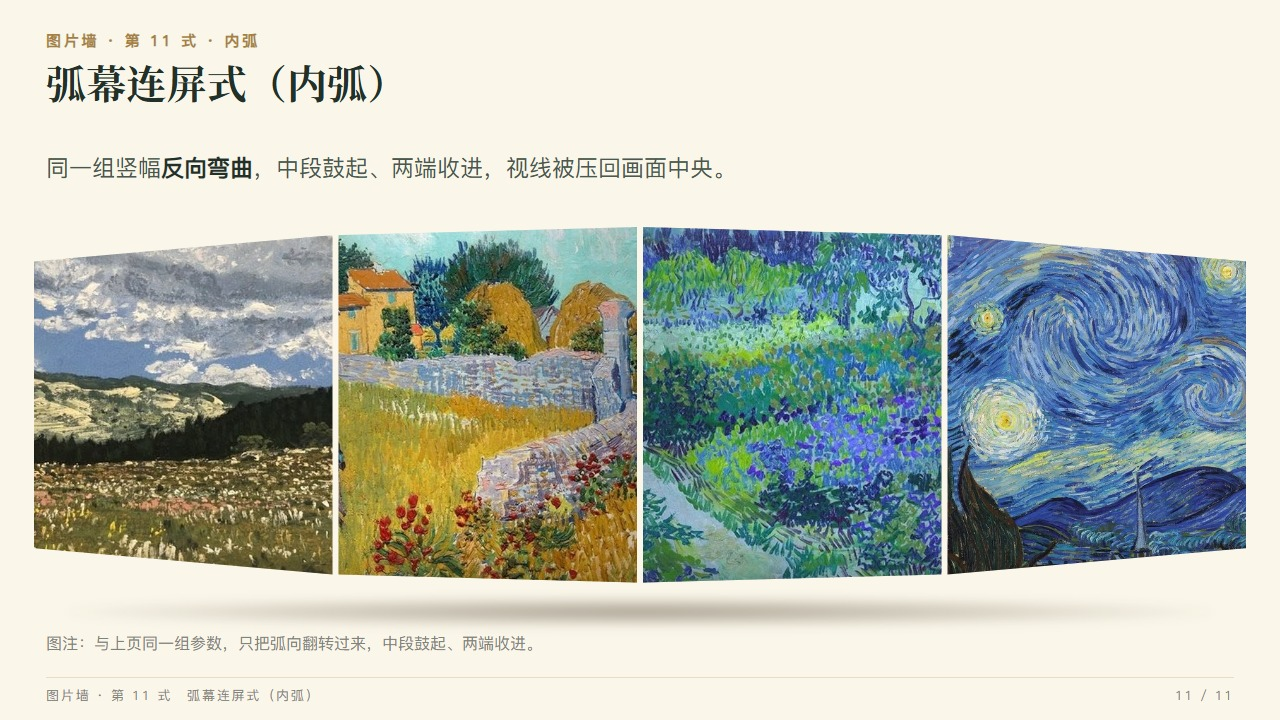
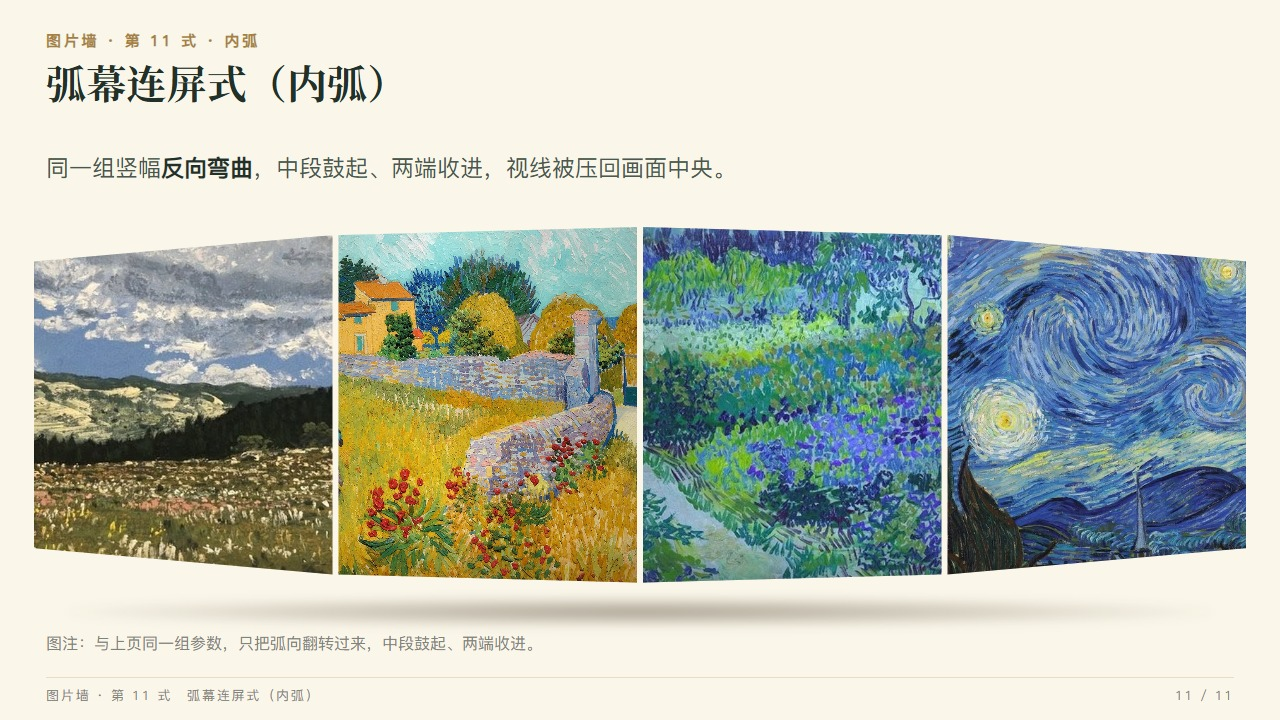
rice-paper-ppt 1.7.2：示例素材库收敛为梵高六张 vg1–vg6
- img/ 收敛为 vg1–vg6：vg2 麦田黄房子换 1388×1133 高清版，新增 vg5 托斯卡纳田园与 vg6 白玫瑰瓶花；用户给的 3 张哈希名 PNG 统一转 JPG q92 并按 vg 系列命名，删除 canyon/dune 等 9 张风景照与 w1–w6 共 15 张旧图
- wall-sec-crest.html（6–7 式）素材改挂 vg1/vg2/vg3/vg5
- 11 张整页实拍全部重渲，两份副本 diff 全等

Changed region(s): [[0.25, 0.3056, 0.5, 0.825]]

diff --git a/rice-paper-ppt/examples/wall-sec-crest.html b/rice-paper-ppt/examples/wall-sec-crest.html
@@ -24,10 +24,10 @@
       <div class="sb">
         <div class="sec-wrap">
           <div class="wall w-sec">
-            <div class="sd"><img src="img/valley.jpg" alt=""></div>
-            <div class="sd"><img src="img/canyon.jpg" alt="" style="object-position:50% 62%"></div>
-            <div class="sd"><img src="img/ridge.jpg" alt=""></div>
-            <div class="sd"><img src="img/dune.jpg" alt=""></div>
+            <div class="sd"><img src="img/vg1.jpg""></div>
+            <div class="sd"><img src="img/vg2.jpg"" ></div>
+            <div class="sd"><img src="img/vg3.jpg""></div>
+            <div class="sd"><img src="img/vg5.jpg""></div>
           </div>
           <div class="sec-cap">
             <div class="sec-t">四帧一把扇</div>
@@ -48,10 +48,10 @@
       <div class="sb">
         <div class="crest-wrap">
           <div class="wall w-crest">
-            <img src="img/valley.jpg" alt="">
-            <img src="img/canyon.jpg" alt="">
-            <img src="img/ridge.jpg" alt="">
-            <img src="img/dune.jpg" alt="">
+            <img src="img/vg1.jpg"">
+            <img src="img/vg2.jpg"">
+            <img src="img/vg3.jpg"">
+            <img src="img/vg5.jpg"">
           </div>
           <div class="crest-head">
             <div class="wt">四帧接成一条地平线</div>

diff --git a/rice-paper-ppt/README.md b/rice-paper-ppt/README.md
@@ -185,7 +185,7 @@ rice-paper-ppt/
     ├── wall-coil.jpg              # 5 式整页通栏实拍
     ├── wall-sec|crest.jpg         # 6–7 式实拍
     ├── wall-grid|fold|arc|arc-inner.jpg # 8–11 式实拍
-    └── img/                       # 示例素材（vg1–4 梵高四张等）
+    └── img/                       # 示例素材（vg1–6 梵高六张，3:2 与 4:3 横构图为主）
 ```
 
 ## 快速开始 / Quick Start
